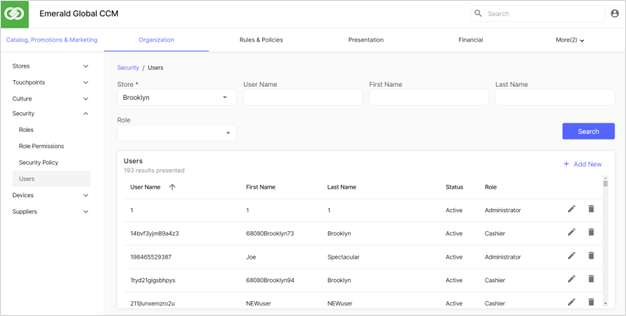
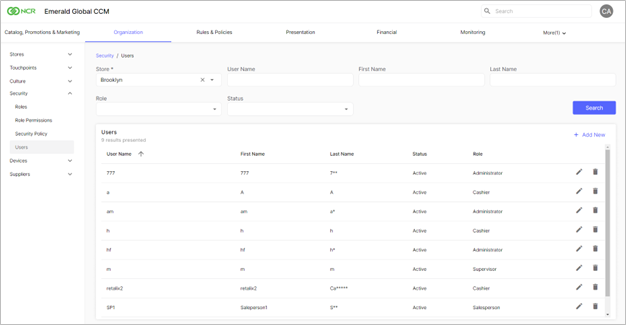
Changes to be committed:

diff --git a/Rules_and_Policies/Receipts/Receipt Messaging.md b/Rules_and_Policies/Receipts/Receipt Messaging.md
@@ -1,0 +1,17 @@
+## Receipt Messaging
+
+**Receipt Messaging** is used to define and format the message printed in the receipt footer. You can print free text messages, such as announcements, store opening hours, and any other communication messages relevant to the store, in the receipt footer. Different messages can be configured for different Locations and Touchpoint Groups (Primary/Secondary).
+
+**Reference Path:** *Rules & Policies /Receipts/Receipt Messaging*
+
+
+|**Field**|**Description**|
+|---------|----------|
+|**Store**|The store in which the message is printed on the receipt.<br>On accessing the module, the ‘Customize Receipt Footer’ screen is displayed.<br>The screen includes the following fields:<br>* Store – the store in which the message is printed on the receipt.<BR>* Touchpoint Type – the touchpoint type on which the transaction was performed<br>* Touchpoint Group – the touchpoint group containing the touchpoint on which the transaction was performed<br>* Receipt Message – the message text printed in the receipt footer. Each line in the message can contain up to 42 characters per line. There is no limit on the number of lines in the message.<br>The following formatting options are available:<br>* Bold<br>* Italics<br>* Underline<br>* Alignment|
+|**Touchpoint Type**|The touchpoint type on which the transaction was performed.|
+|**Touchpoint Group Type**|The touchpoint group containing the touchpoint on which the transaction was performed.|
+|**Receipt Message**|The message text printed in the receipt footer. Each line in the message can contain up to 42 characters per line. There is no limit on the number of lines in the message.<br>The following formatting options are available:<br>* Bold<br>* Italics<br>* Underline<br>* Alignment|
+|**Clear Message**|Click to erase the message text displayed in the Receipt Message text box. The option is enabled only after text is entered in the Recei|pt Message text box.|
+|**Save**|Click to save the message. The button is enabled when an existing message is updated. The updated message overrides the existing message in the selected Location and Touchpoint Group.|
+|**Delete**|Click to delete the message. The button is enabled only if a message is defined. Once the message content is deleted, the screen remains displayed with the same Location and Touchpoint Group TPG with a blank message text box.|
+|**Cancel**|Click to cancel the message. Once selected, the previously saved message is reloaded.|

diff --git a/Rules_and_Policies/Rules/Business_Rules.md b/Rules_and_Policies/Rules/Business_Rules.md
@@ -53,6 +53,7 @@ The Business Rule module includes:
 * **System Environment Conditions** – to trigger messages when the store server is offline, e.g., if you want to prevent the cashier from recalling saved transactions while the server is offline.
 * **Role Conditions** - to prohibit users with permissions to adjust specific cash office activities from adjusting a specific cash office activity by role in a BRM.
 * **Batch Order Conditions** – trigger messages when a QR Code is scanned in a transaction, for example, to prevent the cashier from voiding a single item in a QR Code.
+* **Partial Payment  Condition** – to prohibit voiding/adding items in a transaction that were partially paid for with a specific tender
 
 **Reference Path:** *Rules & Policies/Rules/Business Rules*
 
@@ -165,6 +166,8 @@ The user is not obligated to define all the conditions. It depends on the busine
 |Batch Order Type|Currently only QR Code is supported.||
 |Batch Order Label|The label used to differentiate between batches of the same type, for example pharma and Deli.||
 |**Batch Combination**|Applies a rule to define which batch label combination will trigger the BRM. You can use it to prevent specific QR Codes from being sold in the same transaction.<BR>![Batch Combination Condition](/Images/BatchCombinationCondition.png)<BR>The options are:<BR>**Batch Order Type** – includes all the batch order types, currently QR Code.<BR>**Batch Order Label** – a free text field to enter which Batch orders combination will trigger the  action of the BRM defined. This field is only enabled once the Batch Order Type field is selected.<BR>**For example:**<BR>If the following BRM is defined:<BR>BRM Type – Batch Order<BR>Batch Order Type – QR Code<BR>Batch Order Label - PH<BR>Batch Combination Condition:<BR>Batch Order Type: QR Code<BR>Batch Order Label – FO.<BR>Action – Prohibit (Message: Action Prohibited).<BR><BR>If the cashier scans the QR Code of type PH, and then scans another QR Code of type FO. The BRM is triggered and the POS prompts: Action Prohibited.|Batch Order|
+| **Partial Payment Condition**|Applies a rule to prohibit voiding/adding items in a transaction that were partially paid for with a specific tender.<BR>![Partial Payment Condition Screen](/Images/partialpaymentcondition.png)|Product / Department<br>Void Item|
+
 
 ### Action Tab
 

diff --git a/Organization/Security/Roles.md b/Organization/Security/Roles.md
@@ -121,6 +121,7 @@ The actions that can be selected and applied to a Role. The actions define the a
 |Configure Restriction|To enable users to apply selling restrictions to a product in the store catalog.|
 ||Configure Store Range|To enable users to configure the stores in which products can be sold.|
 |Promotion|Configure|To enable users to set up promotions.|
+|Receipt Messaging|Customer Message|To enables users to add, edit or delete or view the ‘Receipt Custom Messaging’ screen.|
 |Refund Policy|Configure|To enable users to set up the store's return policy.|
 |Regional Settings|Culture Maintenance|To enable users to set up and apply the culture settings used in the store environment to support multi languages.|
 ||Resources Export|To enable users to export the resource files containing a language to be translated.|

diff --git a/Organization/Security/Users.md b/Organization/Security/Users.md
@@ -21,6 +21,7 @@ A user is assigned both, for example, if they are required to access both the St
 |**First Name**|The user’s first name.|
 |**Last Name**|The user’s last name.<BR>To comply with EU GDPR (European Union General Data Protection Regulations) requirements 75% of the user’s last name is masked, showing minimum one letter. All masking is done on the end of the name. For example:<BR>Johnson = Jo***** <BR>Levi = L*** <BR>Dan = D** <BR>Lo = L*<BR>If only one user is retrieved, the user's last name is not masked.|
 |**Role**|The role assigned to the user.|
+|**Status**|The status assigned to the user.|
 |**Users Grid**|
 |User Name|The name assigned to the user|
 |First Name|The user’s first name.|

diff --git a/Catalog_Promotions_and_Marketing/Store_Catalog/Local_Price_History.md b/Catalog_Promotions_and_Marketing/Store_Catalog/Local_Price_History.md
@@ -17,6 +17,6 @@
 |Local Price|The current price of the item, after it was changed.|
 |Start Date|The date on which the new price was applied.|
 |Expiry date|The date on which the new price is no longer applied.|
-|User|The username of the use who made the price change.|
+|User|The username of the user who made the price change, displayed in accordance with the configuration of General Data Protection Regulations (GDPR).|
 |Input Time|A time stamp showing when the time and date on which the price was changed.|
 |Reason|The reason for the price change.|
